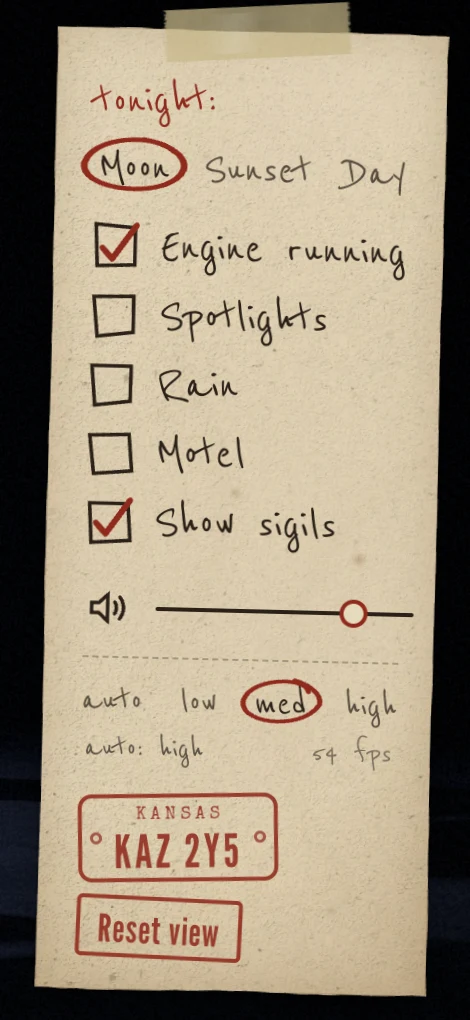
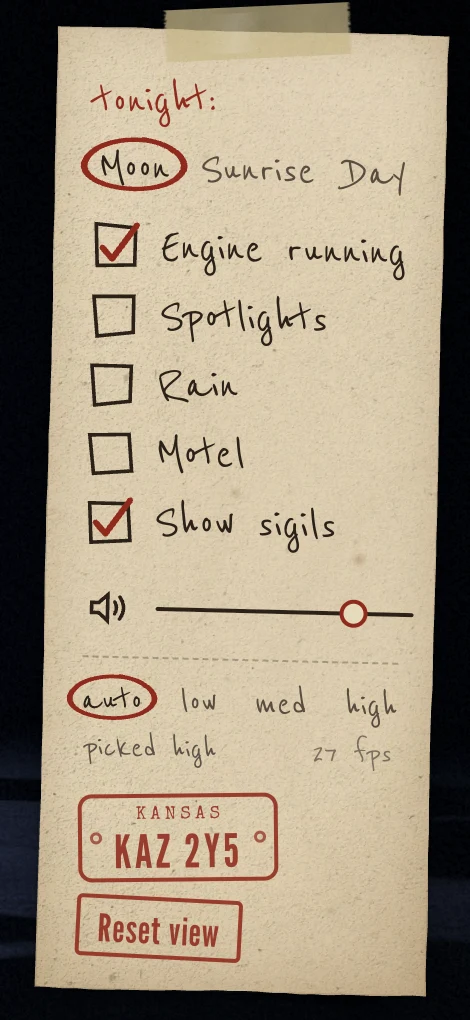
Sunrise instead of Sunset: the moon sets, the sun rises
- The warm preset is Sunrise now (?light=sunset still works)
- The moon and the sun are separate bodies in the sky dome. Each preset
  says which one is up; the other waits 12 degrees below the horizon on
  its own bearing. A change moves each from where it is to where it's
  going, so Moon -> Sunrise sets the moon into the haze while the sun comes
  up, and Sunrise -> Day lifts the sun (8 -> 14 degrees). Their glow goes
  once they're well below the horizon
- Preset blends take 2.4 s instead of 1.1, long enough to watch
- About page and README updated; checklist picture retaken

Claude-Session: https://claude.ai/code/session_01PpqPeuBPhHA5M9CaZn3GJh

diff --git a/src/scene/lighting.ts b/src/scene/lighting.ts
@@ -1,6 +1,6 @@
 import * as THREE from 'three';
 
-export type PresetName = 'moon' | 'sunset' | 'day';
+export type PresetName = 'moon' | 'sunrise' | 'day';
 
 export interface Preset {
   label: string;
@@ -36,8 +36,13 @@ export interface Preset {
    * angular radius, `intensity` its brightness (above 1 it blooms), `halo`
    * the glow the fog scatters round it
    */
-  orb: { elevation: number; size: number; color: number; intensity: number; halo: number; haloColor: number };
+  orb: { body: 'moon' | 'sun'; elevation: number; size: number; color: number; intensity: number; halo: number; haloColor: number };
 }
+
+/** where the moon or the sun is in the sky right now, and how it looks */
+interface Body { az: number; el: number; size: number; color: THREE.Color; halo: THREE.Color }
+/** how far below the horizon a body waits when it isn't up */
+const SET_EL = -0.22;
 
 const deg = THREE.MathUtils.degToRad;
 
@@ -60,10 +65,10 @@ export const PRESETS: Record<PresetName, Preset> = {
     haze: 1,
     bloom: 0.5,
     lamps: 1,
-    orb: { elevation: deg(11), size: 0.024, color: 0xe6ecff, intensity: 1.7, halo: 0.32, haloColor: 0x7d8cb8 },
+    orb: { body: 'moon', elevation: deg(11), size: 0.024, color: 0xe6ecff, intensity: 1.7, halo: 0.32, haloColor: 0x7d8cb8 },
   },
-  sunset: {
-    label: 'Sunset',
+  sunrise: {
+    label: 'Sunrise',
     hdri: 'hdri/sunset.hdr',
     envIntensity: 1.1,
     envRotation: deg(24),
@@ -80,7 +85,7 @@ export const PRESETS: Record<PresetName, Preset> = {
     haze: 0.55,
     bloom: 0.42,
     lamps: 0.75,
-    orb: { elevation: deg(8), size: 0.042, color: 0xffb46a, intensity: 2.6, halo: 0.55, haloColor: 0xff8a4a },
+    orb: { body: 'sun', elevation: deg(8), size: 0.042, color: 0xffb46a, intensity: 2.6, halo: 0.55, haloColor: 0xff8a4a },
   },
   day: {
     label: 'Day',
@@ -100,7 +105,7 @@ export const PRESETS: Record<PresetName, Preset> = {
     haze: 0.12,
     bloom: 0.25,
     lamps: 0.45,
-    orb: { elevation: deg(13), size: 0.034, color: 0xfff6e8, intensity: 1.5, halo: 0.22, haloColor: 0xfff0dc },
+    orb: { body: 'sun', elevation: deg(14), size: 0.034, color: 0xfff6e8, intensity: 1.5, halo: 0.22, haloColor: 0xfff0dc },
   },
 };
 
@@ -204,9 +209,15 @@ export class LightingRig {
   private sky = {
     uTop: { value: new THREE.Color() }, uHorizon: { value: new THREE.Color() },
     uGlow: { value: new THREE.Color() }, uSun: { value: new THREE.Vector3(1, 0, 0) },
-    uOrb: { value: new THREE.Vector3(1, 0, 0) }, uOrbCol: { value: new THREE.Color() }, uOrbSize: { value: 0.03 },
-    uHalo: { value: new THREE.Color() },
+    uMoon: { value: new THREE.Vector3(1, 0, 0) }, uMoonCol: { value: new THREE.Color() }, uMoonSize: { value: 0.03 },
+    uMoonHalo: { value: new THREE.Color() },
+    uSunO: { value: new THREE.Vector3(1, 0, 0) }, uSunCol: { value: new THREE.Color() }, uSunSize: { value: 0.03 },
+    uSunHalo: { value: new THREE.Color() },
   };
+  /** the moon and the sun, each moving from where it was to where the preset wants it */
+  private bodies = { moon: blankBody(), sun: blankBody() };
+  private bodyFrom = { moon: blankBody(), sun: blankBody() };
+  private bodyTo = { moon: blankBody(), sun: blankBody() };
   current: PresetName = 'moon';
   private from: Preset = PRESETS.moon;
   private to: Preset = PRESETS.moon;
@@ -249,11 +260,24 @@ export class LightingRig {
           gl_Position = p.xyww;
         }`,
       fragmentShader: `uniform vec3 uTop; uniform vec3 uHorizon; uniform vec3 uGlow; uniform vec3 uSun; varying vec3 vDir;
-        uniform vec3 uOrb; uniform vec3 uOrbCol; uniform float uOrbSize; uniform vec3 uHalo;
+        uniform vec3 uMoon; uniform vec3 uMoonCol; uniform float uMoonSize; uniform vec3 uMoonHalo;
+        uniform vec3 uSunO; uniform vec3 uSunCol; uniform float uSunSize; uniform vec3 uSunHalo;
         float h21(vec2 p) { return fract(sin(dot(p, vec2(127.1, 311.7))) * 43758.5453); }
         float vn(vec2 p) {
           vec2 i = floor(p), f = fract(p); f = f * f * (3.0 - 2.0 * f);
           return mix(mix(h21(i), h21(i + vec2(1, 0)), f.x), mix(h21(i + vec2(0, 1)), h21(i + vec2(1, 1)), f.x), f.y);
+        }
+        // a moon or sun through the fog: a soft-edged disc, a tight corona and a wide
+        // glow; it sinks behind the horizon haze as it sets
+        vec3 orb(vec3 d, vec3 o, vec3 col, float size, vec3 halo, float maria, float fade) {
+          float a = acos(clamp(dot(d, o), -1.0, 1.0));
+          float disc = 1.0 - smoothstep(size * 0.72, size * 1.25, a);
+          vec3 t1 = normalize(cross(o, vec3(0.0, 1.0, 0.0)));
+          vec3 t2 = cross(t1, o);
+          vec2 q = vec2(dot(d, t1), dot(d, t2)) / size;
+          float mottle = 1.0 - maria * (1.0 - vn(q * 2.2 + 3.0));
+          float veil = 0.78 + 0.22 * vn(q * 0.8 + vec2(o.x * 9.0, 0.0));
+          return (col * disc * mottle * veil + halo * (0.55 * exp(-a / (size * 2.2)) + 0.45 * exp(-a / 0.3))) * fade;
         }
         void main() {
           vec3 d = normalize(vDir);
@@ -261,18 +285,9 @@ export class LightingRig {
           vec3 c = mix(uHorizon, uTop, smoothstep(0.0, 0.6, e));
           float toward = max(dot(normalize(d.xz + 1e-5), normalize(uSun.xz + 1e-5)), 0.0);
           c += uGlow * pow(toward, 5.0) * smoothstep(-0.02, 0.06, e) * (1.0 - smoothstep(0.05, 0.45, e));
-          // the moon or sun through the fog: a soft-edged disc, a tight corona and a wide glow
-          float a = acos(clamp(dot(d, uOrb), -1.0, 1.0));
-          float disc = 1.0 - smoothstep(uOrbSize * 0.72, uOrbSize * 1.25, a);
-          // faint maria on the moon, drifting fog over any disc
-          vec3 t1 = normalize(cross(uOrb, vec3(0.0, 1.0, 0.0)));
-          vec3 t2 = cross(t1, uOrb);
-          vec2 q = vec2(dot(d, t1), dot(d, t2)) / uOrbSize;
-          float mottle = 0.82 + 0.18 * vn(q * 2.2 + 3.0);
-          float veil = 0.78 + 0.22 * vn(q * 0.8 + vec2(uOrb.x * 9.0, 0.0));
           float fade = smoothstep(-0.01, 0.09, e);
-          c += uOrbCol * disc * mottle * veil * fade;
-          c += uHalo * (0.55 * exp(-a / (uOrbSize * 2.2)) + 0.45 * exp(-a / 0.3)) * fade;
+          c += orb(d, uMoon, uMoonCol, uMoonSize, uMoonHalo, 0.18, fade);
+          c += orb(d, uSunO, uSunCol, uSunSize, uSunHalo, 0.0, fade);
           c += (fract(sin(dot(gl_FragCoord.xy, vec2(12.9898, 78.233))) * 43758.5453) - 0.5) / 255.0;
           gl_FragColor = vec4(c, 1.0);
         }`,
@@ -282,6 +297,10 @@ export class LightingRig {
     this.backdrop.renderOrder = -10;
     this.backdrop.name = 'sky';
     this.group.add(this.sun, this.sun.target, this.hemi, this.backdrop);
+    for (const k of ['moon', 'sun'] as const) {
+      bodyIn(PRESETS.moon, k, this.bodyFrom[k]);
+      bodyIn(PRESETS.moon, k, this.bodyTo[k]);
+    }
     this.apply(PRESETS.moon, PRESETS.moon, 1);
   }
 
@@ -290,6 +309,10 @@ export class LightingRig {
     this.from = this.snapshot();
     this.to = PRESETS[name];
     this.current = name;
+    for (const k of ['moon', 'sun'] as const) {
+      copyBody(this.bodyFrom[k], this.bodies[k]);
+      bodyIn(PRESETS[name], k, this.bodyTo[k]);
+    }
     this.t = instant ? 1 : 0;
     this.envSwapped = instant;
     if (instant) this.onEnvSwap?.(name);
@@ -304,6 +327,7 @@ export class LightingRig {
   retarget() {
     this.from = this.to = PRESETS[this.current];
     this.t = 1;
+    for (const k of ['moon', 'sun'] as const) bodyIn(this.to, k, this.bodyTo[k]);
   }
 
   /** the blended state right now, as a preset (for smooth re-targeting) */
@@ -319,7 +343,8 @@ export class LightingRig {
   update(dt: number) {
     this.cabin += (this.cabinTarget - this.cabin) * Math.min(1, dt * 2.5);
     if (this.t < 1) {
-      this.t = Math.min(1, this.t + dt / 1.1);
+      // long enough to watch the moon set and the sun come up
+      this.t = Math.min(1, this.t + dt / 2.4);
       if (!this.envSwapped && this.t >= 0.5) {
         this.envSwapped = true;
         this.onEnvSwap?.(this.current);
@@ -359,11 +384,24 @@ export class LightingRig {
     this.sky.uTop.value.set(p.sky.top);
     this.sky.uGlow.value.set(p.sky.glow).multiplyScalar(p.sky.glowStrength);
     this.sky.uSun.value.copy(dir);
-    const oe = Math.min(p.sun.elevation, p.orb.elevation);
-    this.sky.uOrb.value.set(Math.cos(oe) * Math.cos(p.sun.azimuth), Math.sin(oe), Math.cos(oe) * Math.sin(p.sun.azimuth));
-    this.sky.uOrbCol.value.set(p.orb.color).multiplyScalar(p.orb.intensity);
-    this.sky.uOrbSize.value = p.orb.size;
-    this.sky.uHalo.value.set(p.orb.haloColor).multiplyScalar(p.orb.halo);
+    // the moon and the sun: each travels on its own, so one sets while the other rises
+    const u = this.sky;
+    for (const [key, o, col, size, halo] of [
+      ['moon', u.uMoon, u.uMoonCol, u.uMoonSize, u.uMoonHalo],
+      ['sun', u.uSunO, u.uSunCol, u.uSunSize, u.uSunHalo],
+    ] as const) {
+      const f = this.bodyFrom[key], t = this.bodyTo[key], cur = this.bodies[key];
+      cur.az = lerpAngle(f.az, t.az, k);
+      cur.el = f.el + (t.el - f.el) * k;
+      cur.size = f.size + (t.size - f.size) * k;
+      cur.color.copy(f.color).lerp(t.color, k);
+      cur.halo.copy(f.halo).lerp(t.halo, k);
+      o.value.set(Math.cos(cur.el) * Math.cos(cur.az), Math.sin(cur.el), Math.cos(cur.el) * Math.sin(cur.az));
+      col.value.copy(cur.color);
+      size.value = cur.size;
+      // its glow goes with it once it's well below the horizon
+      halo.value.copy(cur.halo).multiplyScalar(THREE.MathUtils.smoothstep(cur.el, SET_EL + 0.06, 0.02));
+    }
   }
 }
 
@@ -404,9 +442,37 @@ function blend(a: Preset, b: Preset, k: number): Preset {
     bloom: n(a.bloom, b.bloom),
     lamps: n(a.lamps, b.lamps),
     orb: {
+      body: k < 0.5 ? a.orb.body : b.orb.body,
       elevation: n(a.orb.elevation, b.orb.elevation), size: n(a.orb.size, b.orb.size),
       color: lerpColor(a.orb.color, b.orb.color, k), intensity: n(a.orb.intensity, b.orb.intensity),
       halo: n(a.orb.halo, b.orb.halo), haloColor: lerpColor(a.orb.haloColor, b.orb.haloColor, k),
     },
   };
+}
+
+function blankBody(): Body {
+  return { az: 0, el: SET_EL, size: 0.03, color: new THREE.Color(0, 0, 0), halo: new THREE.Color(0, 0, 0) };
+}
+
+function copyBody(to: Body, from: Body) {
+  to.az = from.az;
+  to.el = from.el;
+  to.size = from.size;
+  to.color.copy(from.color);
+  to.halo.copy(from.halo);
+}
+
+/**
+ * Where `body` is in preset `p`: up where the preset's light is (drawn no
+ * higher than its orb elevation), or waiting below the horizon on the bearing
+ * of the preset it belongs to (the moon's night sky, the sun's sunrise).
+ */
+function bodyIn(p: Preset, body: 'moon' | 'sun', out: Body) {
+  const up = p.orb.body === body;
+  const home = up ? p : body === 'moon' ? PRESETS.moon : PRESETS.sunrise;
+  out.az = home.sun.azimuth;
+  out.el = up ? Math.min(p.sun.elevation, p.orb.elevation) : SET_EL;
+  out.size = home.orb.size;
+  out.color.set(home.orb.color).multiplyScalar(home.orb.intensity);
+  out.halo.set(home.orb.haloColor).multiplyScalar(home.orb.halo);
 }

diff --git a/about.html b/about.html
@@ -60,13 +60,13 @@
         <h2>Eight rounds</h2>
         <ol class="rounds">
           <li><strong>24 September, the first build.</strong> The car, the four views, the trunk, the journal and the tapes. It loaded, and not much else worked.</li>
-          <li><strong>“Let's make this better.”</strong> Working controls, real paper, the Moon, Sunset and Day lighting, light shafts, a proper motel, recorded sounds, and a page five times faster.</li>
+          <li><strong>“Let's make this better.”</strong> Working controls, real paper, the Moon, Sunset (now Sunrise) and Day lighting, light shafts, a proper motel, recorded sounds, and a page five times faster.</li>
           <li><strong>Tweaks, and this page.</strong> Pen-stroke loading lines, flat knives, paging and a glow in the trunk, the engine lifting out on its own.</li>
           <li><strong>A quality switch</strong>, with a frame-rate readout.</li>
           <li><strong>A real pegboard</strong>, and the discovery that Dan's browser had been showing a three-day-old model.</li>
           <li><strong>From reference photos:</strong> Ruby's knife, the angel blade, the Colt, Dean's own gun, the EMF meter, the green cooler and the radio.</li>
           <li><strong>Real brand names</strong>, live EMF lights and a dash that finally clears the radio.</li>
-          <li><strong>Polish:</strong> a smooth hood, matte seats, wheels that don't glow, share cards, a Spotify tape that plays, spotlights that look like spotlights, and the moon and sun through the fog.</li>
+          <li><strong>Polish:</strong> a smooth hood, matte seats, wheels that don't glow, share cards, a Spotify tape that plays, spotlights that look like spotlights, and a moon that sets as the sun rises.</li>
         </ol>
 
         <h2>The brief</h2>
@@ -140,7 +140,7 @@
         <p>The hood took two rounds. Down both sides it showed stepped, dark facets, clearest at sunset. First I gave the clear coat the body's normal map (three.js gives the clear coat a normal map of its own, and it had none). That helped, but didn't fix it. Switching the normal map off made the facets worse, which pointed at the mesh's own normals. The source body stores hand-set normals, and cutting it into panels had re-encoded them against the new topology, skewed by up to 68°. The build now drops them and lets each panel shade smooth, with creases only where the surface really folds. The page also computes real tangents for the paint: without them, three.js derives them per triangle, and on a low-poly shell that shows as facets too. Now the hood reads as one smooth panel with its two crisp centre ridges.</p>
         <p>The dished wheels had the opposite problem: they glowed like lamps in sunlight. A concave dish mirrors the sun, or a bright sky, across a whole band of its face at once, and bloom turned that into a halo. The wheels now use their own chrome, capped just under the bloom threshold, so they stay bright and polished without the glow. The bumpers and trim are unchanged.</p>
 
-        <h2>Moon, sunset and day</h2>
+        <h2>Moon, sunrise and day</h2>
         <p>Dan wanted to see the car better, and suggested lighting presets. Each one is built from a CC0 HDRI from Poly Haven ("Narrow Moonlit Road", "Goegap Road" and "Mall Parking Lot"), but the HDRI is never shown as a background. It's baked into a prefiltered environment map that only the paint, chrome and glass reflect, so the car sits on its own patch of asphalt with no distracting scenery.</p>
 
         <figure class="triple">
@@ -149,8 +149,8 @@
             <figcaption>Moon</figcaption>
           </div>
           <div class="photo tilt-r">
-            <img src="/about/preset_sunset.webp" width="1000" height="625" loading="lazy" alt="The car at sunset: warm orange light and a warm glow on the horizon." />
-            <figcaption>Sunset</figcaption>
+            <img src="/about/preset_sunset.webp" width="1000" height="625" loading="lazy" alt="The car at sunrise: warm orange light and a warm glow on the horizon." />
+            <figcaption>Sunrise</figcaption>
           </div>
           <div class="photo tilt-l">
             <img src="/about/preset_day.webp" width="1000" height="625" loading="lazy" alt="The car in daylight: a bright grey studio look with every detail visible." />
@@ -168,7 +168,8 @@
         </ul>
 <pre><code>vec4 p = projectionMatrix * vec4(mat3(viewMatrix) * position, 1.0);
 gl_Position = p.xyww;   // depth is always 1.0: the sky never gets closer</code></pre>
-        <p>The moon and the sun are in the sky too, seen through the fog: a soft-edged disc with a tight corona and a wide glow, all drawn in the same shader as the sky dome, with faint maria on the moon and drifting haze over any disc. Each sits on its light's own bearing, so it agrees with the shadows and highlights. From the default camera that means it's behind you. Orbit round to the far side of the car and it's there, low over the roof. It's drawn lower than the light really is (at most 8° to 13° up, depending on the preset), because the camera never looks far above the horizon. It sits in the planar reflections too, so the setting sun lands in the puddles under the car.</p>
+        <p>The moon and the sun are in the sky too, seen through the fog: a soft-edged disc with a tight corona and a wide glow, all drawn in the same shader as the sky dome, with faint maria on the moon and drifting haze over any disc. Each sits on its light's own bearing, so it agrees with the shadows and highlights. From the default camera that means it's behind you. Orbit round to the far side of the car and it's there, low over the roof. It's drawn lower than the light really is (at most 8° to 13° up, depending on the preset), because the camera never looks far above the horizon. It sits in the planar reflections too, so the low sun lands in the puddles under the car.</p>
+        <p>The first version had one disc that simply turned from the moon into the sun when you switched from Moon to what was then Sunset, which Dan rightly called out. The warm preset is now Sunrise, and the moon and the sun are separate. Each preset says which one is up, and the other waits about 12° below the horizon on its own bearing. A preset change moves each from where it is to where it's going, so going from Moon to Sunrise the moon sinks into the haze while the sun comes up a little further round, and going on to Day the sun climbs. The whole blend now takes 2.4 seconds instead of 1.1, so you can watch it happen.</p>
 
         <figure class="pair">
           <div class="photo tilt-r">
@@ -176,8 +177,8 @@ gl_Position = p.xyww;   // depth is always 1.0: the sky never gets closer</code>
             <figcaption>The moon through the fog, from the far side of the car.</figcaption>
           </div>
           <div class="photo tilt-l">
-            <img src="/about/orb_sunset.webp" width="1000" height="625" loading="lazy" alt="The car in silhouette at sunset, a large orange sun low behind it and its glow reflected in the wet asphalt." />
-            <figcaption>The sun going down behind her, and in the puddles.</figcaption>
+            <img src="/about/orb_sunset.webp" width="1000" height="625" loading="lazy" alt="The car in silhouette at sunrise, a large orange sun low behind it and its glow reflected in the wet asphalt." />
+            <figcaption>The sun coming up behind her, and in the puddles.</figcaption>
           </div>
         </figure>
 
@@ -337,7 +338,7 @@ gl_Position = p.xyww;   // depth is always 1.0: the sky never gets closer</code>
 
         <figure class="pair narrow">
           <div class="photo tilt-r">
-            <img src="/about/ui_checklist.webp" width="470" height="1020" loading="lazy" alt="The checklist scrap: Moon circled in red, ticked boxes for the engine and sigils, the volume slider, the quality switch with a pencilled frame rate, the KAZ 2Y5 plate stamp and a Reset view stamp." />
+            <img src="/about/ui_checklist.webp" width="470" height="1020" loading="lazy" alt="The checklist scrap: Moon circled in red among Moon, Sunrise and Day, ticked boxes for the engine and sigils, the volume slider, the quality switch with a pencilled frame rate, the KAZ 2Y5 plate stamp and a Reset view stamp." />
             <figcaption>Tonight's checklist, with the quality switch and the plate stamp.</figcaption>
           </div>
           <div class="photo tilt-l">

diff --git a/src/ui/hud.ts b/src/ui/hud.ts
@@ -89,10 +89,10 @@ export class Hud {
     this.checklist = h('section', { class: 'checklist sheet', 'aria-label': 'Scene' },
       h('span', { class: 'tape' }), h('h2', {}, 'tonight:'));
     const lightRow = h('div', { class: 'light-row', role: 'radiogroup', 'aria-label': 'Light' });
-    (['moon', 'sunset', 'day'] as PresetName[]).forEach((p, i) => {
+    (['moon', 'sunrise', 'day'] as PresetName[]).forEach((p, i) => {
       const b = h('button', { class: 'light', type: 'button', role: 'radio', 'aria-checked': p === 'moon' ? 'true' : 'false' });
       b.innerHTML = `<svg viewBox="0 0 30 30" preserveAspectRatio="none" aria-hidden="true"><path class="ring" pathLength="100" d="M${25 - i} ${9 + i * 0.5} C ${21 + i} ${2.5}, ${5 - i * 0.5} ${3 + i * 0.4}, ${2.5} ${14 + i * 0.3} C ${1 + i * 0.5} ${25}, ${24 - i} ${28 - i * 0.4}, ${27.5} ${16 - i * 0.4} C ${28.5} ${11}, ${24} ${6}, ${17 + i} ${4.5}"/></svg>`;
-      b.append(h('span', {}, p === 'moon' ? 'Moon' : p === 'sunset' ? 'Sunset' : 'Day'));
+      b.append(h('span', {}, p === 'moon' ? 'Moon' : p === 'sunrise' ? 'Sunrise' : 'Day'));
       b.addEventListener('click', () => {
         this.setLight(p);
         on.light(p);

diff --git a/src/main.ts b/src/main.ts
@@ -801,10 +801,11 @@ async function main() {
     });
   };
 
-  // test hooks: ?autostart skips the start button, ?nointro skips the reveal, ?light=sunset|day
+  // test hooks: ?autostart skips the start button, ?nointro skips the reveal, ?light=sunrise|day
   const params = new URLSearchParams(location.search);
   const light = params.get('light');
-  if (light === 'sunset' || light === 'day' || light === 'moon') setLight(light);
+  if (light === 'sunrise' || light === 'day' || light === 'moon') setLight(light);
+  else if (light === 'sunset') setLight('sunrise'); // the old name, from links shared before
   if (params.has('nointro')) director.reduced = true;
   if (params.has('autostart')) {
     const go = () => {

diff --git a/README.md b/README.md
@@ -2,7 +2,7 @@
 
 An unofficial fan page for **Baby**, Dean Winchester's black 1967 Chevrolet Impala four-door hardtop from *Supernatural*.
 
-Walk around her on a patch of wet asphalt by moonlight, at sunset or in daylight, start the engine, sweep the A-pillar spotlights through the fog, open the trunk to see the Winchester arsenal under the Devil's Trap, climb inside to find the army man and the Legos, pull her apart in an exploded workshop view, and play Dean's tapes on a copy of her slot-loading deck.
+Walk around her on a patch of wet asphalt by moonlight, at sunrise or in daylight, start the engine, sweep the A-pillar spotlights through the fog, open the trunk to see the Winchester arsenal under the Devil's Trap, climb inside to find the army man and the Legos, pull her apart in an exploded workshop view, and play Dean's tapes on a copy of her slot-loading deck.
 
 Built with [three.js](https://threejs.org) and Vite. Everything the site needs ships in this repo; the one external service is the optional Spotify tape.
 
@@ -16,13 +16,13 @@ npm run build      # production build into dist/
 
 Every file in `public/` is fetched with a content hash in its URL (`?v=…`, from the `virtual:asset-sizes` plugin), so a rebuilt model or sound never comes out of a stale browser cache.
 
-Handy URL flags while developing: `?autostart` skips the start screen, `?nointro` skips the reveal, `?light=moon|sunset|day` picks the lighting, `?quality=low|medium|high` forces a quality tier. Viewers can also pick Auto / Low / Med / High in the checklist (remembered per browser), with a live FPS readout next to it. Auto steps down when it can't hold ~30 fps and back up when it holds ~55.
+Handy URL flags while developing: `?autostart` skips the start screen, `?nointro` skips the reveal, `?light=moon|sunrise|day` picks the lighting, `?quality=low|medium|high` forces a quality tier. Viewers can also pick Auto / Low / Med / High in the checklist (remembered per browser), with a live FPS readout next to it. Auto steps down when it can't hold ~30 fps and back up when it holds ~55.
 
 ## What's in here
 
 | Path | What it is |
 | --- | --- |
-| `src/scene/` | Renderer, the Moon / Sunset / Day lighting presets (HDRI reflections, sun or moon, sky gradient), the wet ground with planar puddle reflections, light shafts, dust, rain, the motel, the painted sigils, the camera director, the exploded view and the trunk sequence |
+| `src/scene/` | Renderer, the Moon / Sunrise / Day lighting presets (HDRI reflections, sun or moon, sky gradient, a moon that sets and a sun that rises between them), the wet ground with planar puddle reflections, light shafts, dust, rain, the motel, the painted sigils, the camera director, the exploded view and the trunk sequence |
 | `src/boot/` | Staged loading: every asset is fetched with real byte progress, then textures are uploaded and every shader compiled before the start button appears |
 | `src/ui/` | The journal UI: loading page, index tabs, the checklist, lore pages, hotspot hit-targets, the cassette deck. Paper is built from a scanned page texture, stains and torn edges |
 | `src/audio/` | Recorded V8 start-up, seamless idle and shut-off, trunk latch and creak, tape-deck clunks, and the tape player (local MP3s + Spotify embed) |
